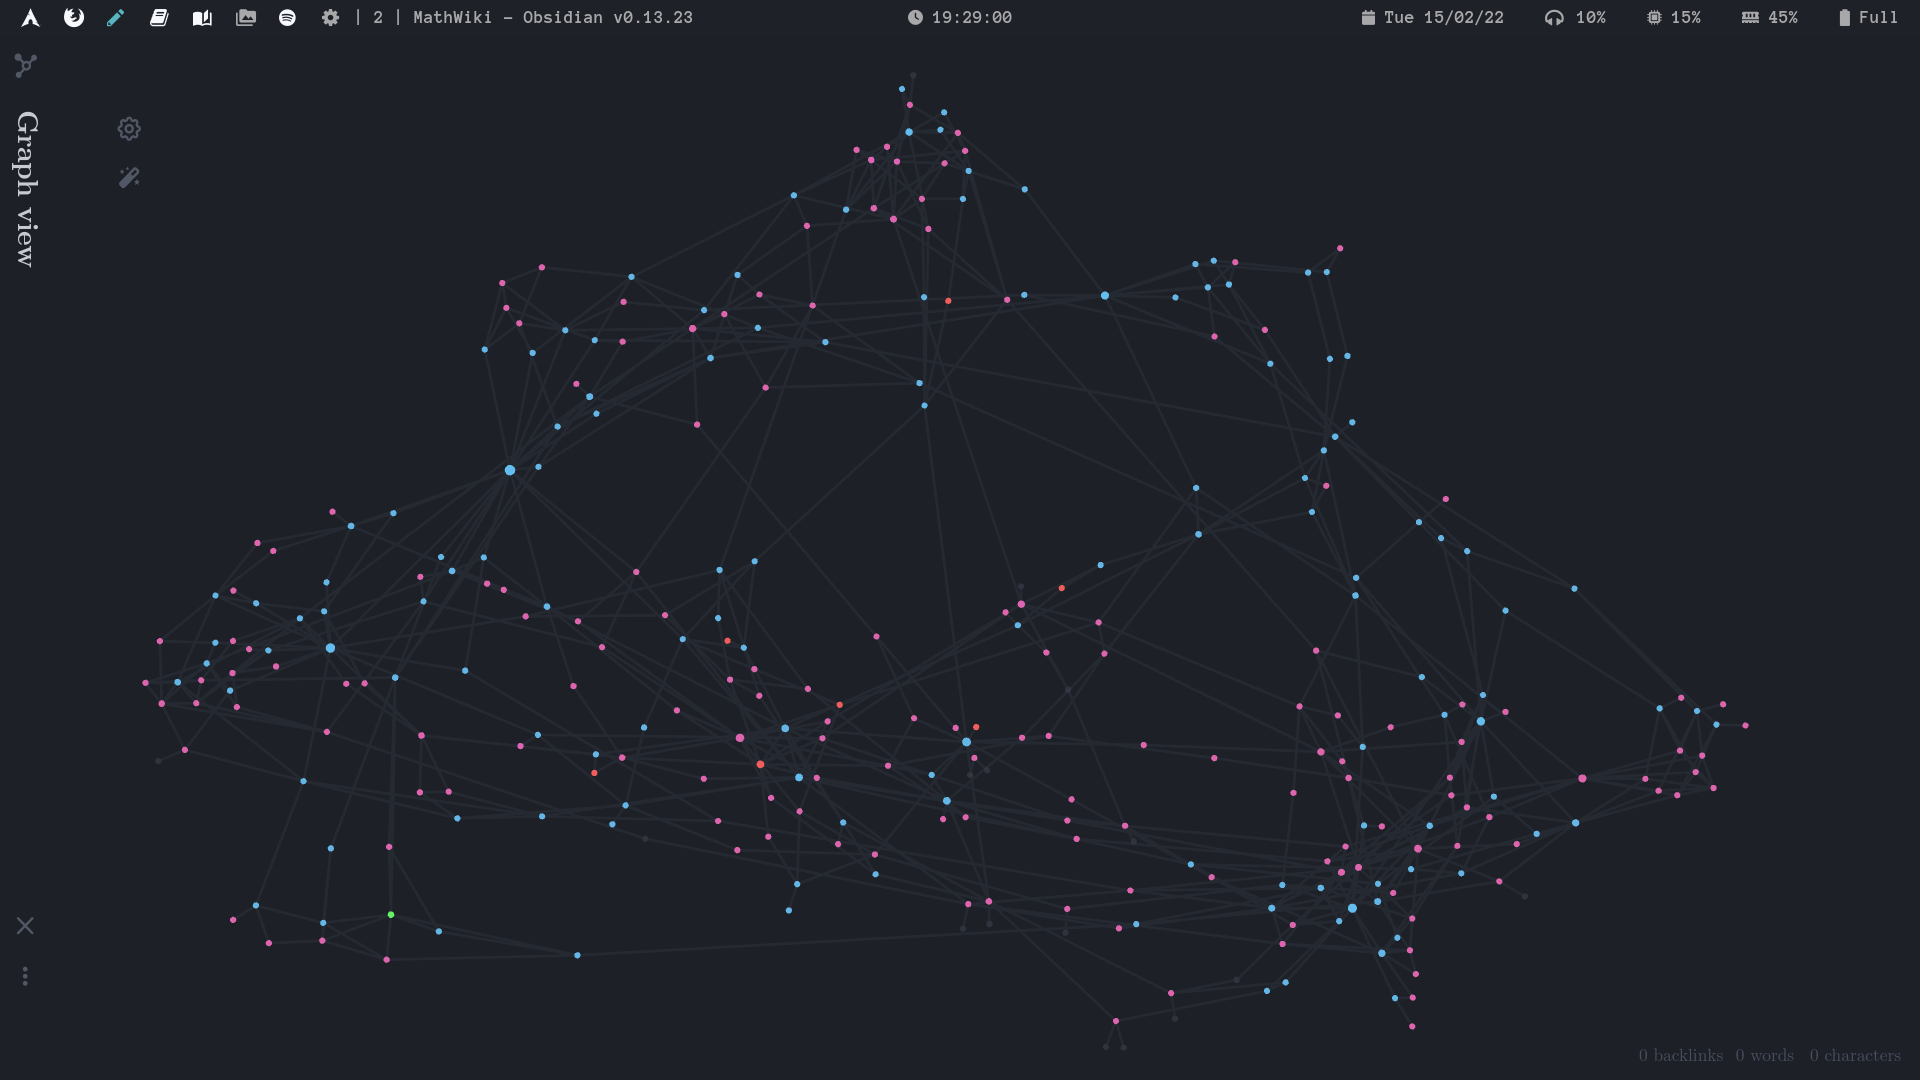
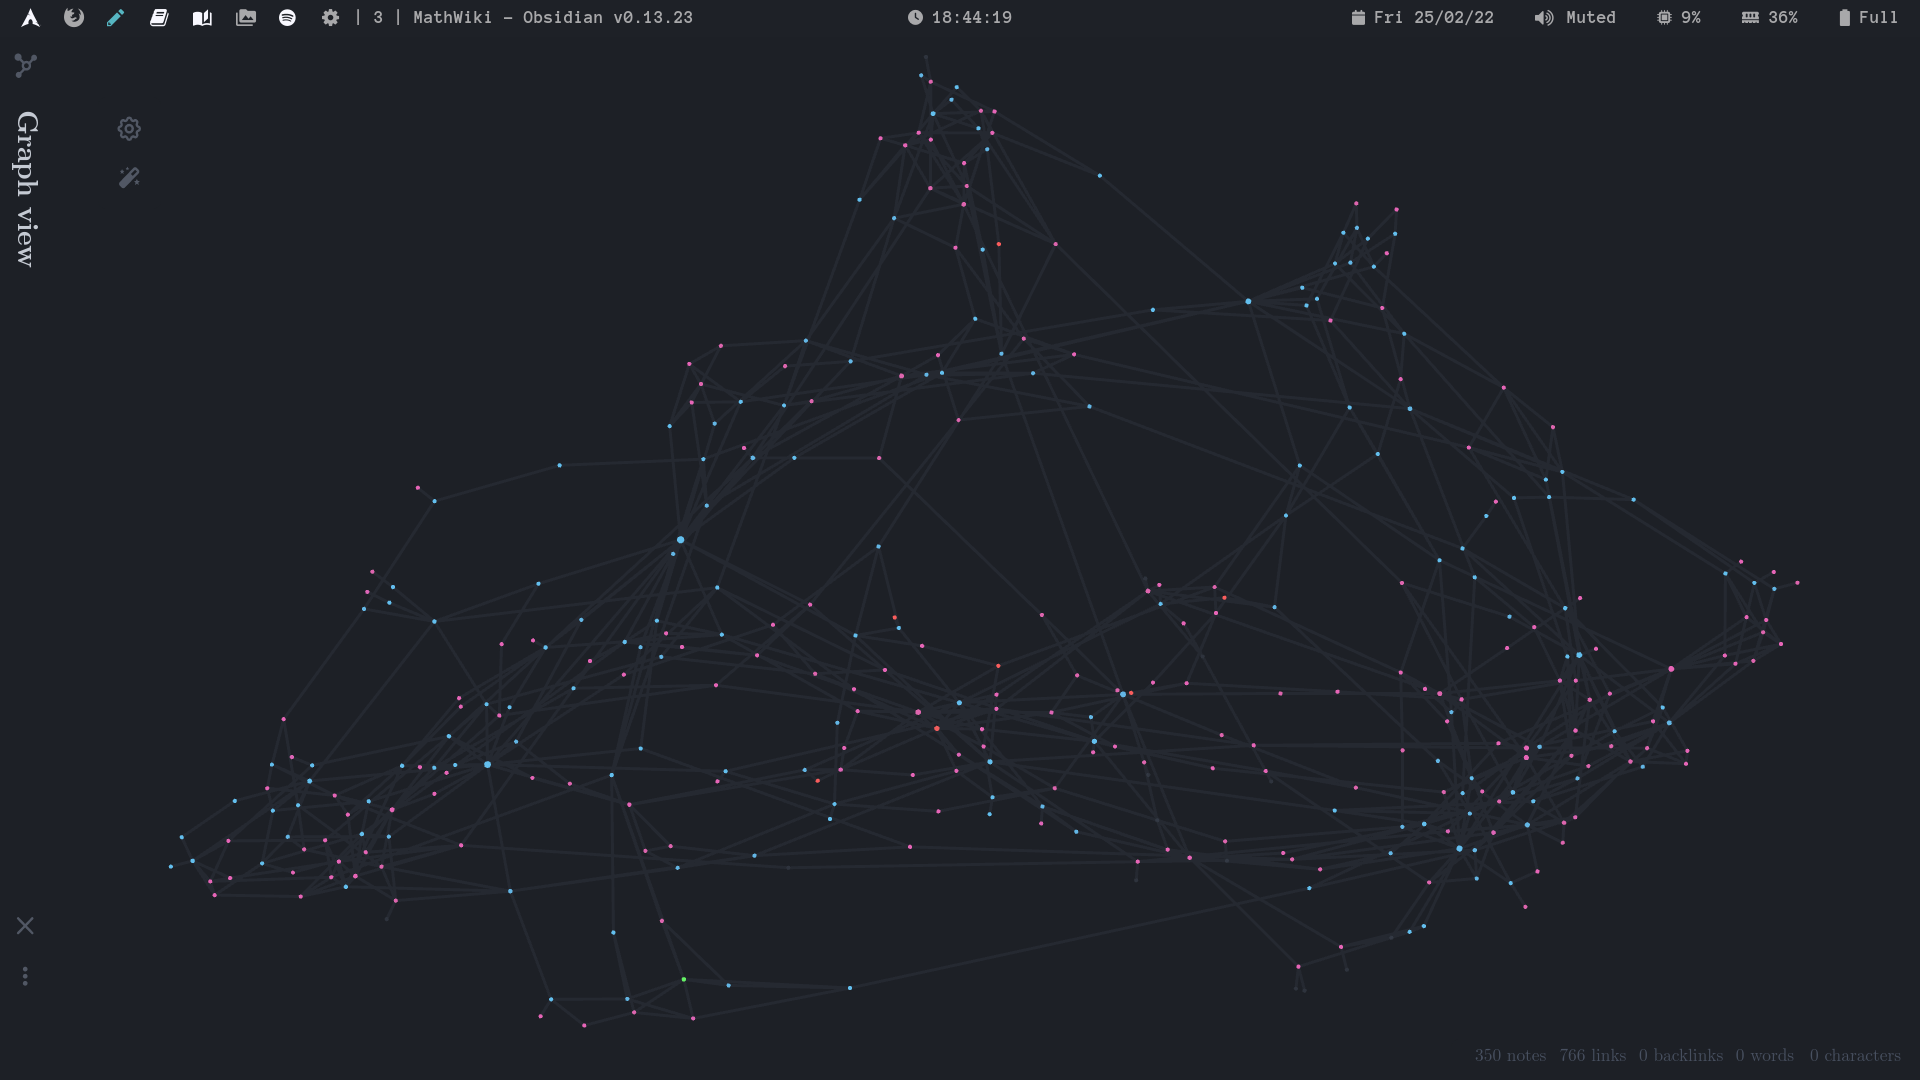
Update README

diff --git a/Notes/Universal set is a proper class.md b/Notes/Universal set is a proper class.md
@@ -21,7 +21,7 @@ _Proof._ Suppose, for contradiction, that such a set $v$ exists, i.e., $\ex v\fa
 $$\begin{equation}
     \ex z\fa x\l[x\in z\Leftrightarrow\l(x\in v\land x\not\in x\r)\r].
 \end{equation}$$
-Now, because $u\in v$ for all sets $u$, and $z$ is a set, we have $z\in v$ too.
+Now, because $u\in v$ for all sets $u$ and $z$ is a set, we have $z\in v$ too.
 * If $z\in z$, then, by $\textrm{`}$construction$\textrm{'}$, we have $z\in v\land z\not\in z$. In particular, we have $z\in z\Rightarrow z\not\in z$.
 * If $z\not\in z$, then, because we already have $z\in v$, we see that $z\in z$ too. Therefore, $z\not\in z\Rightarrow z\in z$.
 

diff --git a/README.md b/README.md
@@ -43,7 +43,7 @@ Pluggins:
 * [Extended MathJax](https://github.com/xldenis/obsidian-latex): Add macros in [`preamble.sty`](preamble.sty).
 * [Hider](https://github.com/kepano/obsidian-hider): Hide title bars, scroll bars, etc.
 * [Sliding Panes (Andy's Mode)](https://github.com/deathau/sliding-panes-obsidian): Stack panes side-by-side.
-* [Vault Statistics](https://github.com/bkyle/obsidian-vault-statistics-plugin): _313 notes, 686 links, 40 attachments, 29853 words._
+* [Vault Statistics](https://github.com/bkyle/obsidian-vault-statistics-plugin): _349 notes, 766 links, 23 attachments, 32902 words._
 
 ### TikZ images
 
